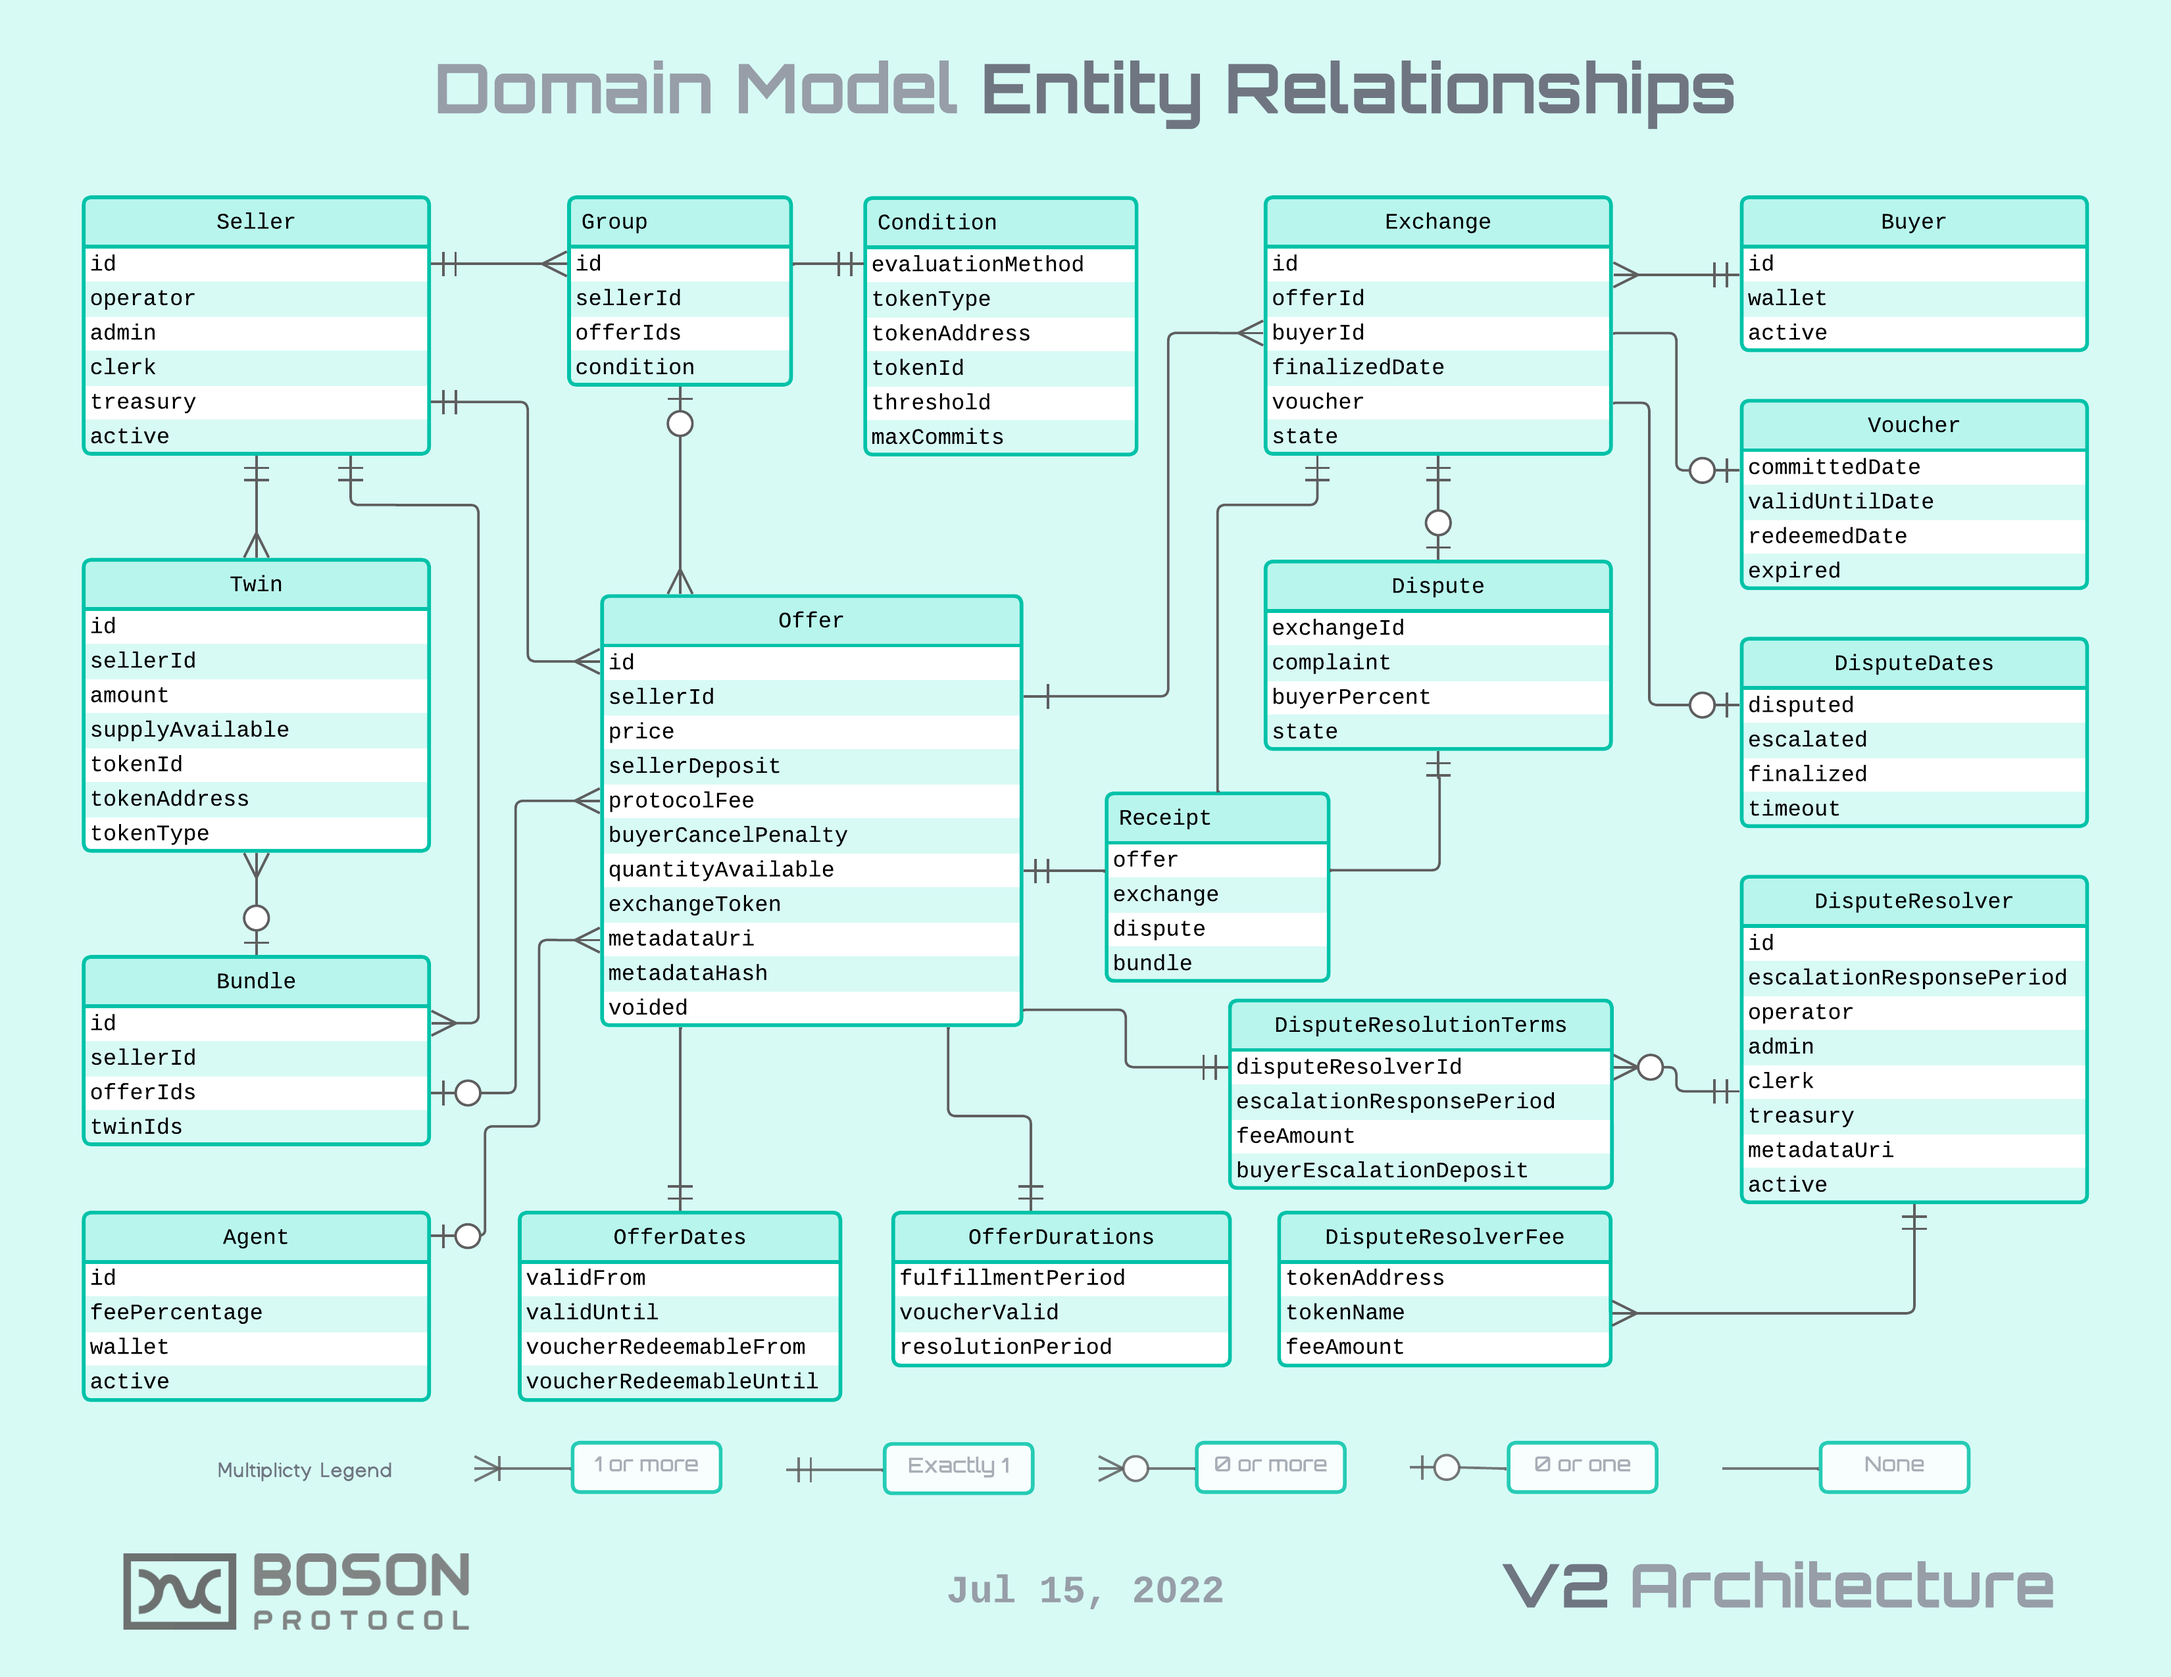
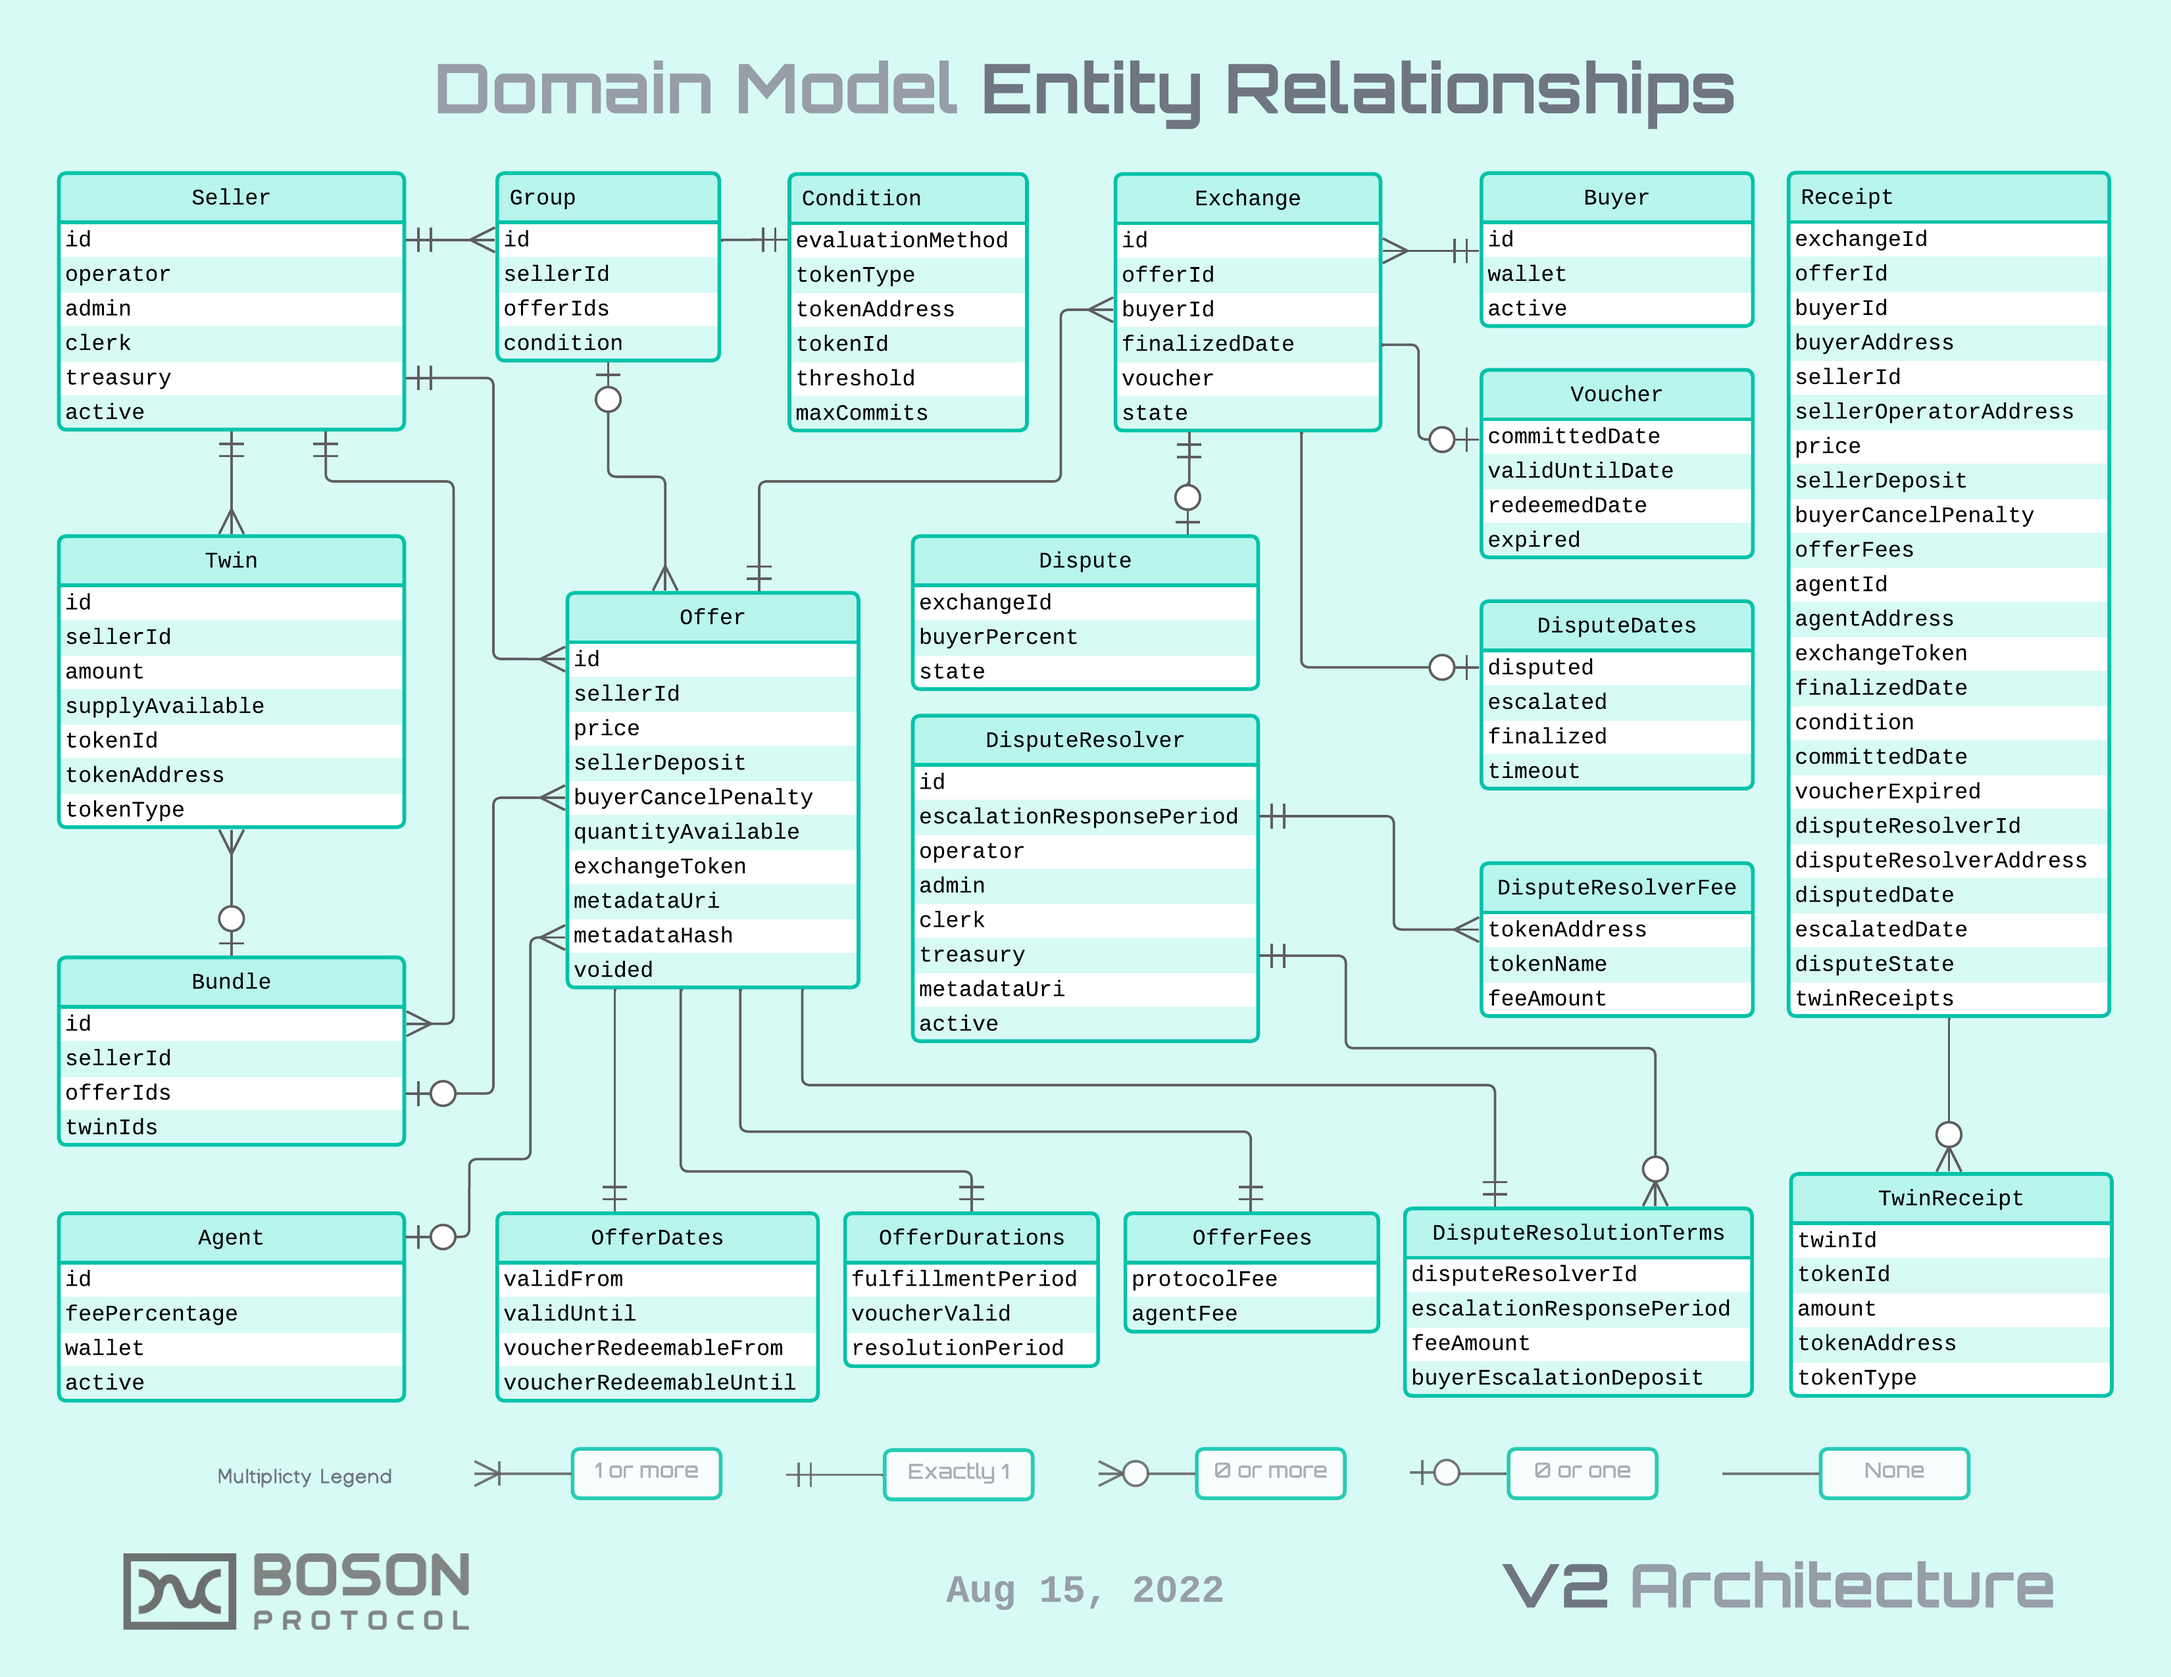
Update Domain Model diagram
* In Boson_Protocol_V2_-_Domain_Model.png,
  - slim and position existing entities to permit new / larger entities
  - remove protocol fee from Offer
  - remove complaint from Dispute
  - add OfferFees struct
  - add all new Receipt fields
  - add TwinReciept struct

diff --git a/docs/domain.md b/docs/domain.md
@@ -10,4 +10,4 @@
 * Modifications to this domain model should be agreed upon by the team and this diagram updated before building if at possible.
 * If confused, _assume this diagram the source of truth_, not the code.
 
-[Source Lucidcharts Document](https://lucid.app/lucidchart/6730d5ca-be1b-4ddb-b7de-a703cd947724/edit?invitationId=inv_acd60ad1-37f8-417a-a69a-5021af8af579)
+[Source Lucidcharts Document](https://lucid.app/lucidchart/71077137-0b8a-4400-bc8d-d271d5b9109c/edit?page=0_0&invitationId=inv_6dc0004b-1aff-4288-90a5-59e22b5a5490#)
